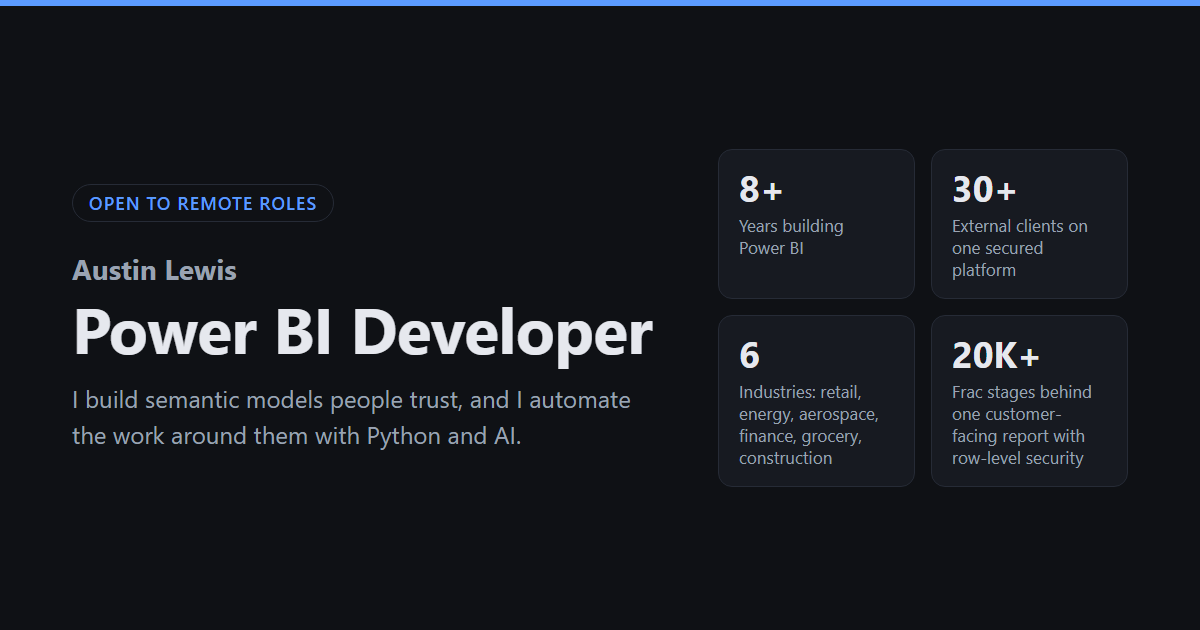
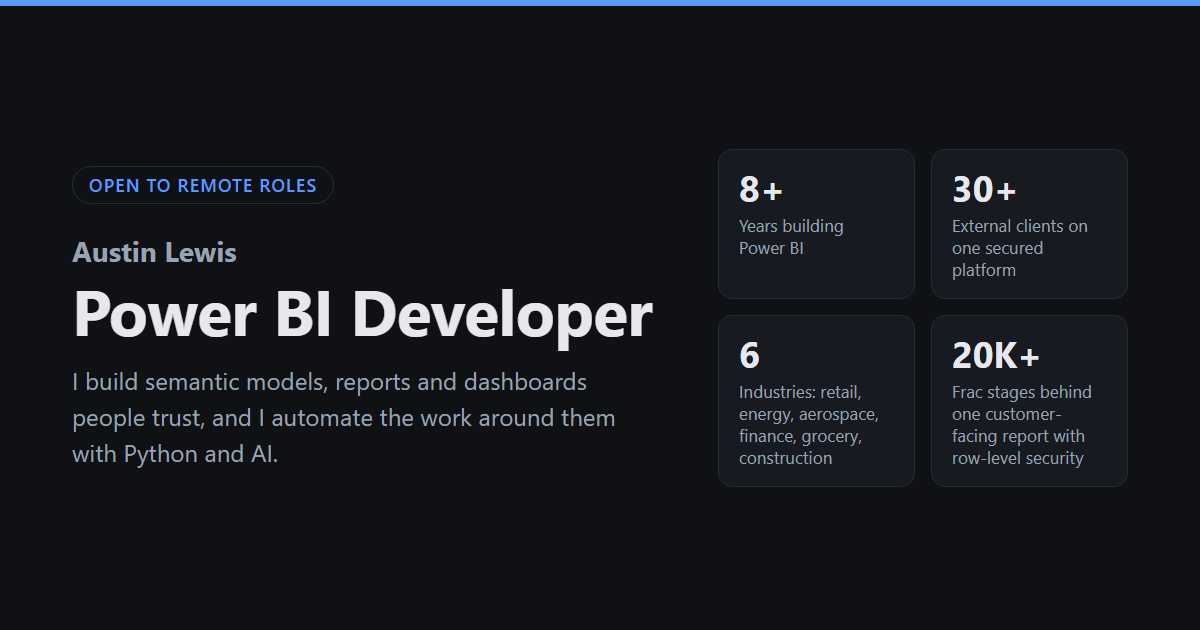
Tagline: semantic models, reports and dashboards people trust

Changed region(s): [[0.0617, 0.3921, 0.555, 0.754], [0.0617, 0.2714, 0.2775, 0.3317]]

diff --git a/index.html b/index.html
@@ -12,13 +12,13 @@
 <meta property="og:type" content="website">
 <meta property="og:site_name" content="Austin Lewis">
 <meta property="og:title" content="Austin Lewis | Power BI Developer">
-<meta property="og:description" content="I build semantic models people trust, and I automate the work around them with Python and AI. Sample reports, projects and contact.">
+<meta property="og:description" content="I build semantic models, reports and dashboards people trust, and I automate the work around them with Python and AI. Sample reports, projects and contact.">
 <meta property="og:url" content="https://austinrlewis.github.io/">
-<meta property="og:image" content="https://austinrlewis.github.io/assets/og-image.png?v=2">
+<meta property="og:image" content="https://austinrlewis.github.io/assets/og-image.png?v=3">
 <meta name="twitter:card" content="summary_large_image">
-<meta name="twitter:image" content="https://austinrlewis.github.io/assets/og-image.png?v=2">
+<meta name="twitter:image" content="https://austinrlewis.github.io/assets/og-image.png?v=3">
 <meta name="twitter:title" content="Austin Lewis | Power BI Developer">
-<meta name="twitter:description" content="I build semantic models people trust, and I automate the work around them with Python and AI.">
+<meta name="twitter:description" content="I build semantic models, reports and dashboards people trust, and I automate the work around them with Python and AI.">
 <link rel="canonical" href="https://austinrlewis.github.io/">
 <link rel="icon" href="assets/favicon.svg" type="image/svg+xml">
 <style>
@@ -294,7 +294,7 @@
     <div>
       <span class="eyebrow">Open to remote roles &middot; Denver, CO</span>
       <h1>Power BI Developer</h1>
-      <p class="lede">I build semantic models people trust, and I automate the work around them with Python and AI.</p>
+      <p class="lede">I build semantic models, reports and dashboards people trust, and I automate the work around them with Python and AI.</p>
       <ul class="chips" aria-label="Core tools">
         <li>Power BI</li><li>DAX</li><li>Snowflake</li><li>Azure BI</li><li>SQL</li><li>Python</li><li>Copilot</li>
       </ul>

diff --git a/semantic-model-metadata.html b/semantic-model-metadata.html
@@ -14,7 +14,7 @@
 <meta property="og:title" content="Semantic Model Metadata | Austin Lewis">
 <meta property="og:description" content="A Power BI model that reads the metadata of every other model, with 11 automated release checks.">
 <meta property="og:url" content="https://austinrlewis.github.io/semantic-model-metadata.html">
-<meta property="og:image" content="https://austinrlewis.github.io/assets/og-image.png?v=2">
+<meta property="og:image" content="https://austinrlewis.github.io/assets/og-image.png?v=3">
 <meta name="twitter:card" content="summary_large_image">
 <link rel="canonical" href="https://austinrlewis.github.io/semantic-model-metadata.html">
 <link rel="icon" href="assets/favicon.svg" type="image/svg+xml">
